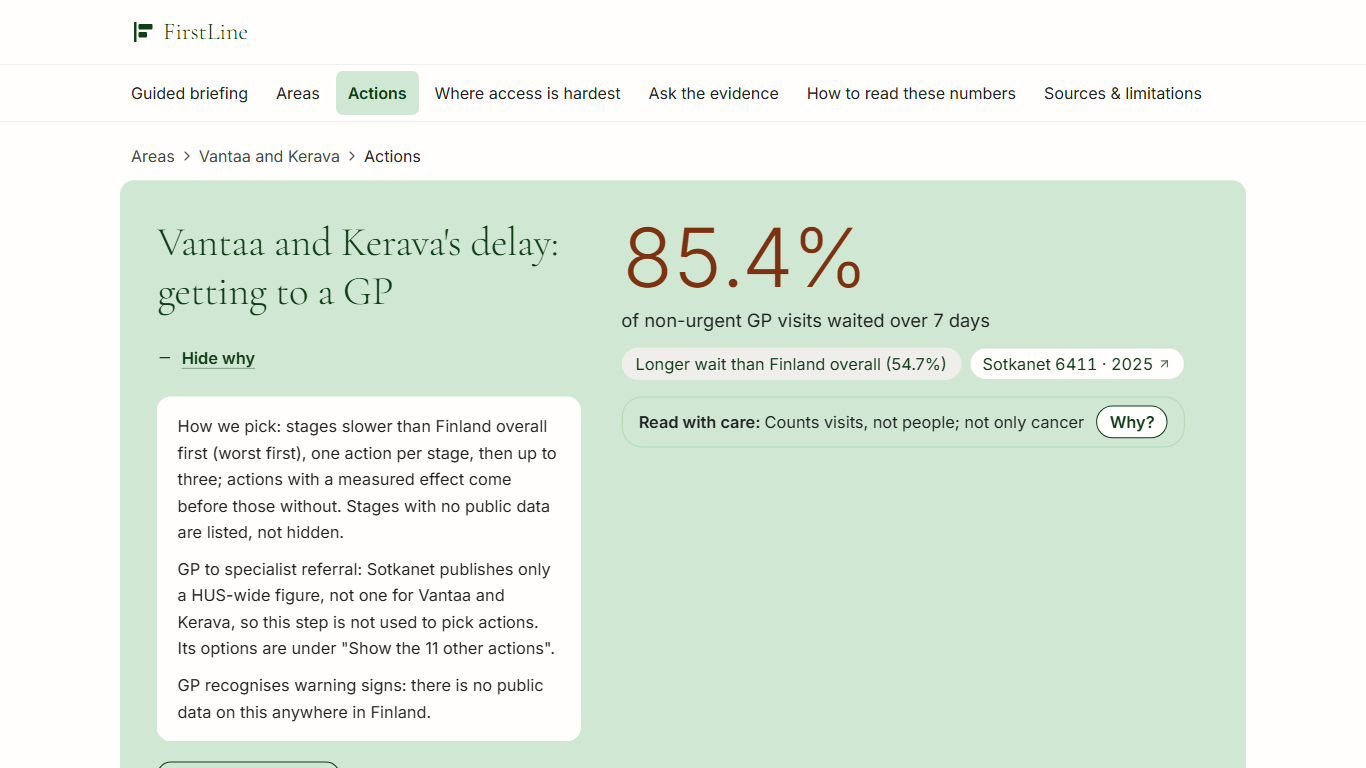
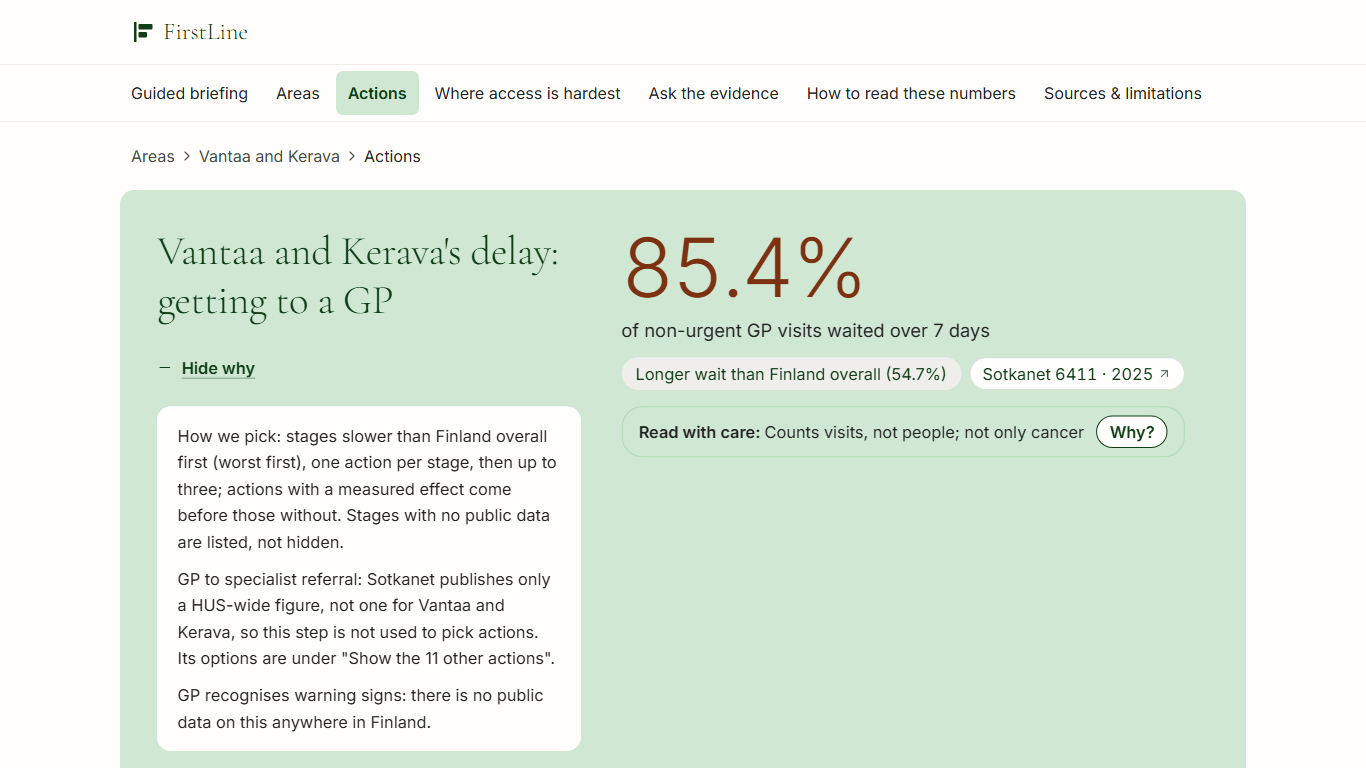
fix(act): hero grid from 1024px, figure fixed when the menu opens, short referral caveat
- Two columns from 1024px (5:6), fixed 36rem figure column from 1280px.
- origin-top on the hero, so FocusGroup's scale no longer moves the figure
  when Save or share or Why opens (numeral y=227 in every state).
- Referral caveat back to its short form (fits one line; Kainuu card 620 -> 596).
- Revert the card and hero padding classes that FocusGroup's CSS overrides anyway.
- Notes: corrected measurements, tab order, refreshed screenshots.

diff --git a/app/county/[id]/act/page.tsx b/app/county/[id]/act/page.tsx
@@ -42,11 +42,11 @@ const FIGURE_CAPTION: Record<string, string> = {
 
 /**
  * The figure's main caveat in a few words, always visible; the indicator's full limitation is behind "Why?".
- * Worded as on the area page's opening card, so the same figure carries the same caveat on both pages.
+ * The GP figure's is worded as on the area page's opening card; the referral one stays short so it fits one line.
  */
 const FIGURE_CAVEAT: Record<string, string> = {
   "6411": "Counts visits, not people; not only cancer",
-  "13": "Measures when assessment starts, not when a specialist is seen",
+  "13": "When assessment starts, not when the patient is seen",
 };
 
 /** The page's one statement: the area's main delay, in at most 12 words. */
@@ -110,21 +110,21 @@ export default async function CountyActPage({ params }: PageProps<"/county/[id]/
       <FocusGroup>
         {/*
           1. The main delay, its figure, and the two quiet controls. One column on a phone, in reading order.
-          From 1280px: the statement and its controls on the left, the figure block on the right. "Save or
+          From 1024px: the statement and its controls on the left, the figure block on the right. "Save or
           share" is last, so its menu opens downwards at the end of the card and never moves the figure.
         */}
         <section
           data-focus-item
           aria-labelledby="act-title"
-          className="mt-4 grid grid-cols-1 gap-5 rounded-lg bg-keylime-wash px-5 py-7 sm:px-10 sm:py-10 xl:grid-cols-[minmax(0,1fr)_36rem] xl:grid-rows-[auto_1fr_auto] xl:gap-x-10"
+          className="mt-4 grid origin-top grid-cols-1 gap-5 rounded-lg bg-keylime-wash px-7 py-9 sm:px-12 sm:py-12 lg:grid-cols-[minmax(0,5fr)_minmax(0,6fr)] lg:grid-rows-[auto_1fr_auto] lg:gap-x-10 xl:grid-cols-[minmax(0,1fr)_36rem]"
         >
-          <Reveal index={0} className="xl:col-start-1 xl:row-start-1">
+          <Reveal index={0} className="lg:col-start-1 lg:row-start-1">
             <h1 id="act-title" className="type-page text-pretty">
               {statement(county.name, bottleneck)}
             </h1>
           </Reveal>
           {lead && leadValue !== null ? (
-            <Reveal index={1} className="flex flex-col gap-2 xl:col-start-2 xl:row-span-3 xl:row-start-1 xl:self-start">
+            <Reveal index={1} className="flex flex-col gap-2 lg:col-start-2 lg:row-span-3 lg:row-start-1 lg:self-start">
               <p className={cn("numeral text-[4rem] leading-none sm:text-[5rem]", bottleneck.anyRed ? "text-status-red-ink" : "text-forest-ink")}>
                 <AnimatedNumber value={leadValue} final={formatPct(leadValue)} decimals={1} level="loud" />
               </p>
@@ -142,7 +142,7 @@ export default async function CountyActPage({ params }: PageProps<"/county/[id]/
               ) : null}
             </Reveal>
           ) : null}
-          <Reveal index={2} className="xl:col-start-1 xl:row-start-2 xl:self-start">
+          <Reveal index={2} className="lg:col-start-1 lg:row-start-2 lg:self-start">
             <Disclosure tone="quiet" show="Why only these actions?" hide="Hide why">
               <ul className="flex max-w-[62ch] flex-col gap-2.5 rounded-lg bg-cream-paper px-5 py-4 text-base leading-relaxed text-pretty print:px-0">
                 <li className="hidden font-semibold text-forest-ink print:block">Why only these actions</li>
@@ -152,7 +152,7 @@ export default async function CountyActPage({ params }: PageProps<"/county/[id]/
               </ul>
             </Disclosure>
           </Reveal>
-          <SaveShare options={shareOptions} className="xl:col-start-1 xl:row-start-3 xl:self-end" />
+          <SaveShare options={shareOptions} className="lg:col-start-1 lg:row-start-3 lg:self-end" />
         </section>
 
         {/* 2. The actions, one card each. */}

diff --git a/components/act/action-item.tsx b/components/act/action-item.tsx
@@ -39,7 +39,7 @@ export function ActionItem({ action, index, showStep }: { action: Evidence; inde
       data-focus-item
       id={`action-${index}`}
       aria-labelledby={`action-${index}-title`}
-      className="flex w-full min-w-0 scroll-mt-28 flex-col gap-4 rounded-lg bg-mint-veil px-5 py-7 sm:px-10 sm:py-9"
+      className="flex w-full min-w-0 scroll-mt-28 flex-col gap-4 rounded-lg bg-mint-veil px-7 py-8 sm:px-10 sm:py-10"
     >
       {/* Three stagger steps, not five: the whole card is in place about 0.75s after it scrolls in. */}
       <Reveal index={0} className="flex items-baseline gap-5">

diff --git a/docs/audit/act/notes.md b/docs/audit/act/notes.md
@@ -2,7 +2,7 @@
 
 ## Hero rework (round 5, target ≥ 9.0 from the judge's 8.6)
 
-Files: `app/county/[id]/act/page.tsx` and `components/act/action-item.tsx`. Screenshots are in `screenshots/hero-r5/before/` and `screenshots/hero-r5/after/`. Raw measurements are `measure-before.json` and `measure-after2.json`.
+Files: `app/county/[id]/act/page.tsx` and `components/act/action-item.tsx`. Screenshots are in `screenshots/hero-r5/before/` and `screenshots/hero-r5/after/`. Raw measurements are `measure-before.json` and `measure-after3.json`.
 
 **Where the height went (before, 1366×768, Vantaa and Kerava):**
 - 201px above the hero (header 122, breadcrumb, `pt-6`, `mt-6`).
@@ -12,35 +12,37 @@ Files: `app/county/[id]/act/page.tsx` and `components/act/action-item.tsx`. Scre
 Shrinking the padding and numeral (R3-02) could only save 17px, because the height came from the one-column stack, not the padding.
 
 **What changed:**
-- **Hero, from 1280px:** a two-column grid. The statement sits on the left with "Why only these actions?" under it and "Save or share" at the bottom. The figure block is on the right, in a 36rem column: numeral, caption, Finland overall pill, source chip and caveat.
-  - DOM, tab and phone order are unchanged: h1 → figure → Why → share.
-  - Under 1280px the hero is one column in that order.
+- **Hero, from 1024px:** a two-column grid. The statement sits on the left with "Why only these actions?" under it and "Save or share" at the bottom. The figure block is on the right: numeral, caption, Finland overall pill, source chip and caveat. The columns are 5:6 from 1024px, and from 1280px the figure column is a fixed 36rem.
+  - DOM and phone order: h1 → figure → Why → share. Under 1024px the hero is one column in that order.
+  - **Changed:** "Save or share" moved from second (beside the title) to last in DOM and Tab order. The keyboard walk at 1366 goes: breadcrumb, source chip, caveat "Why?", "Why only these actions?", "Save or share", then card 1's chip and "Show details". Focus moves from the right column back to the left for the two controls. Every stop shows a focus ring.
 - **"Save or share" is the last thing in the hero** at every width, as on the area page. Its menu opens downwards, in flow, at the end of the card.
-  - The numeral does not move: 224 closed, 221 with the menu open, 217 with Why and the menu both open. The 3–7px is the reveal's own rise settling.
+  - The numeral does not move: y=227 closed, with the menu open, and with Why and the menu both open, at 1366 and at 390. A first try moved it 3–7px. The cause was `FocusGroup`'s `scale(1.02)` on a hero that grows around its centre. `origin-top` on the hero fixes it.
   - The 200px gap under the title is gone.
-- **Spacing:** page `pt-6` → `pt-4`, hero `mt-6` → `mt-4`, actions section `mt-8` → `mt-7`, h2 `mb-5` → `mb-4`. The hero is `px-5 py-7` on a phone (it was `px-7 py-9`), so phone text gets 16px more width.
-- **Action card:** `gap-5` → `gap-4`, `sm:py-10` → `sm:py-9`, `px-5` on a phone. The reveal has three stagger steps instead of five (title; owner and why; chip and "Show details"), so a card is complete about 0.74s after it scrolls in, not about 0.98s. The scroll-driven reveal itself is kept.
-- **Caveat wording:** the act hero's caveat now uses the area page's words, so the same figure carries the same caveat on both pages (R4 noted the mismatch). The new strings are "Counts visits, not people; not only cancer" and "Measures when assessment starts, not when a specialist is seen".
+- **Spacing:** page `pt-6` → `pt-4`, hero `mt-6` → `mt-4`, actions section `mt-8` → `mt-7`, h2 `mb-5` → `mb-4`. The hero's and cards' own padding classes are left alone. Inside a `FocusGroup`, `app/globals.css` sets `[data-focus-item]` padding to `clamp(1.3125rem, 1rem + 1.5vw, 2.625rem)` unlayered, so those classes have no effect.
+- **Action card:** `gap-5` → `gap-4`. The reveal has three stagger steps instead of five (title; owner and why; chip and "Show details"), so a card is complete about 0.74s after it scrolls in, not about 0.98s. The scroll-driven reveal itself is kept.
+- **Caveat wording (GP figure only):** the caveat now uses the area page's words, "Counts visits, not people; not only cancer", so the same figure carries the same caveat on both pages (R4 noted the mismatch). This copies `components/county/area-lead.tsx`, which the county agent owns. If they reword it, this string should follow. The referral caveat keeps its shorter wording. The area page's longer one wrapped Kainuu's caveat to three rows and cost 24px.
 
 **Kept unchanged:**
 - the mint `FocusGroup` cards;
 - the trimmed "Show details";
 - the two bottom panels;
-- every figure, chip and caveat.
+- every figure and chip, and every caveat's substance (one is reworded, above).
 
 ### First-card y (top of `#action-1`, page coordinates)
 
-The settled state is reduced motion, the judge's number. Motion-on adds about 6px of the reveal rise while a card is mid-play.
+These are settled, reduced-motion numbers, the judge's state. With motion on, the card is 6px lower: the focus effect scales the unfocused card to 0.96.
 
 | Viewport | Area | Before | After |
 |---|---|---|---|
 | 1366×768 | Vantaa and Kerava | 780 | **574** (card title ends at 666; owner pill on screen) |
-| 1366×768 | Kainuu | 780 | **620** (title ends at 712) |
+| 1366×768 | Kainuu | 780 | **596** (title ends at 688) |
 | 1366×768 | Central Uusimaa (4-line statement) | 828 | **670** (title ends at 762) |
+| 1440×800 | Vantaa and Kerava | — | 576 |
 | 1280×800 | Vantaa and Kerava | — | 571 |
-| 1024×800 | Vantaa and Kerava (one column) | — | 810 |
+| 1152×800 | Vantaa and Kerava | — | 630 |
+| 1024×800 | Vantaa and Kerava | about 780 (the same one-column hero) | 674 |
 | 390×844 | Vantaa and Kerava | 1000 | 972 |
-| 390×844 | Kainuu | 918 | 914 |
+| 390×844 | Kainuu | 918 | 890 |
 
 At 1366×768 the first card's number, title and owner are on the first screen. In a real laptop window of about 650px, the number and title of Vantaa and Kerava's card 1 are visible; its why line still needs one scroll. On a phone, the hero still fills the first screen, because the shared two-row nav takes 170px.
 
@@ -48,7 +50,7 @@ At 1366×768 the first card's number, title and owner are on the first screen. I
 
 Run on `next build` + `next start -p 3124`, with playwright-core 1.65.1 driving its bundled Chromium. The server was stopped by PID.
 
-- **Sideways scroll:** none at 390, 1024, 1280, 1366 or 1440. That holds with Save or share open, with Why and Save or share both open, and with every `<details>` open.
+- **Sideways scroll:** none at 390, 1024, 1152, 1280, 1366 or 1440. That holds with Save or share open, with Why and Save or share both open, and with every `<details>` open.
 - **Small text:** none under 16px in `main`.
 - **No JavaScript:** all three cards, the figure and every reveal are visible once the CSS entrance has played, and nothing is left at opacity 0. Save or share renders as a button.
 - **Print (the `beforeprint` handler plus print media):** all 11 `<details>` are open, none closed. Save or share is hidden, and nothing is faint. The PDF is `after/vantaa-kerava-print.pdf`.
@@ -57,7 +59,7 @@ Run on `next build` + `next start -p 3124`, with playwright-core 1.65.1 driving 
 
 ### Fact-diff (`main.innerText`, every `<details>` open, Vantaa and Kerava, Kainuu and Central Uusimaa)
 
-The only changed lines are the two caveat short forms above. Every number, source chip, limitation and action text is identical. The only move is "Save or share", now at the end of the hero; it is hidden on paper.
+The only changed line is the GP caveat short form above, on Vantaa and Kerava and Central Uusimaa. Every number, source chip, limitation and action text is identical. The only move is "Save or share", now at the end of the hero; it is hidden on paper.
 
 ### Self-score (rubric weights)
 
@@ -68,13 +70,14 @@ The only changed lines are the two caveat short forms above. Every number, sourc
 **Why it moves:**
 - **Ease:** the first action is on the first screen at 1366.
 - **Hierarchy:** the statement and the figure read side by side, as one claim and its evidence. The share menu no longer splits the hero.
-- **Consistency:** the caveat now matches the area page.
+- **Consistency:** the GP caveat now matches the area page.
 - **Motion:** the card's reveal completes sooner.
 
 **Why it is not a clear 9.0:**
 - On a phone the hero still fills the first screen.
 - In a 650px laptop window, card 1's why line is below the fold.
 - On Central Uusimaa the four-line statement pushes the card to 670.
+- Tab order goes right column, then left, for the two hero controls.
 
 Branch `t3/act-page-small-chunks`, stacked on `t3/experimental-real-user-audit`.
 
